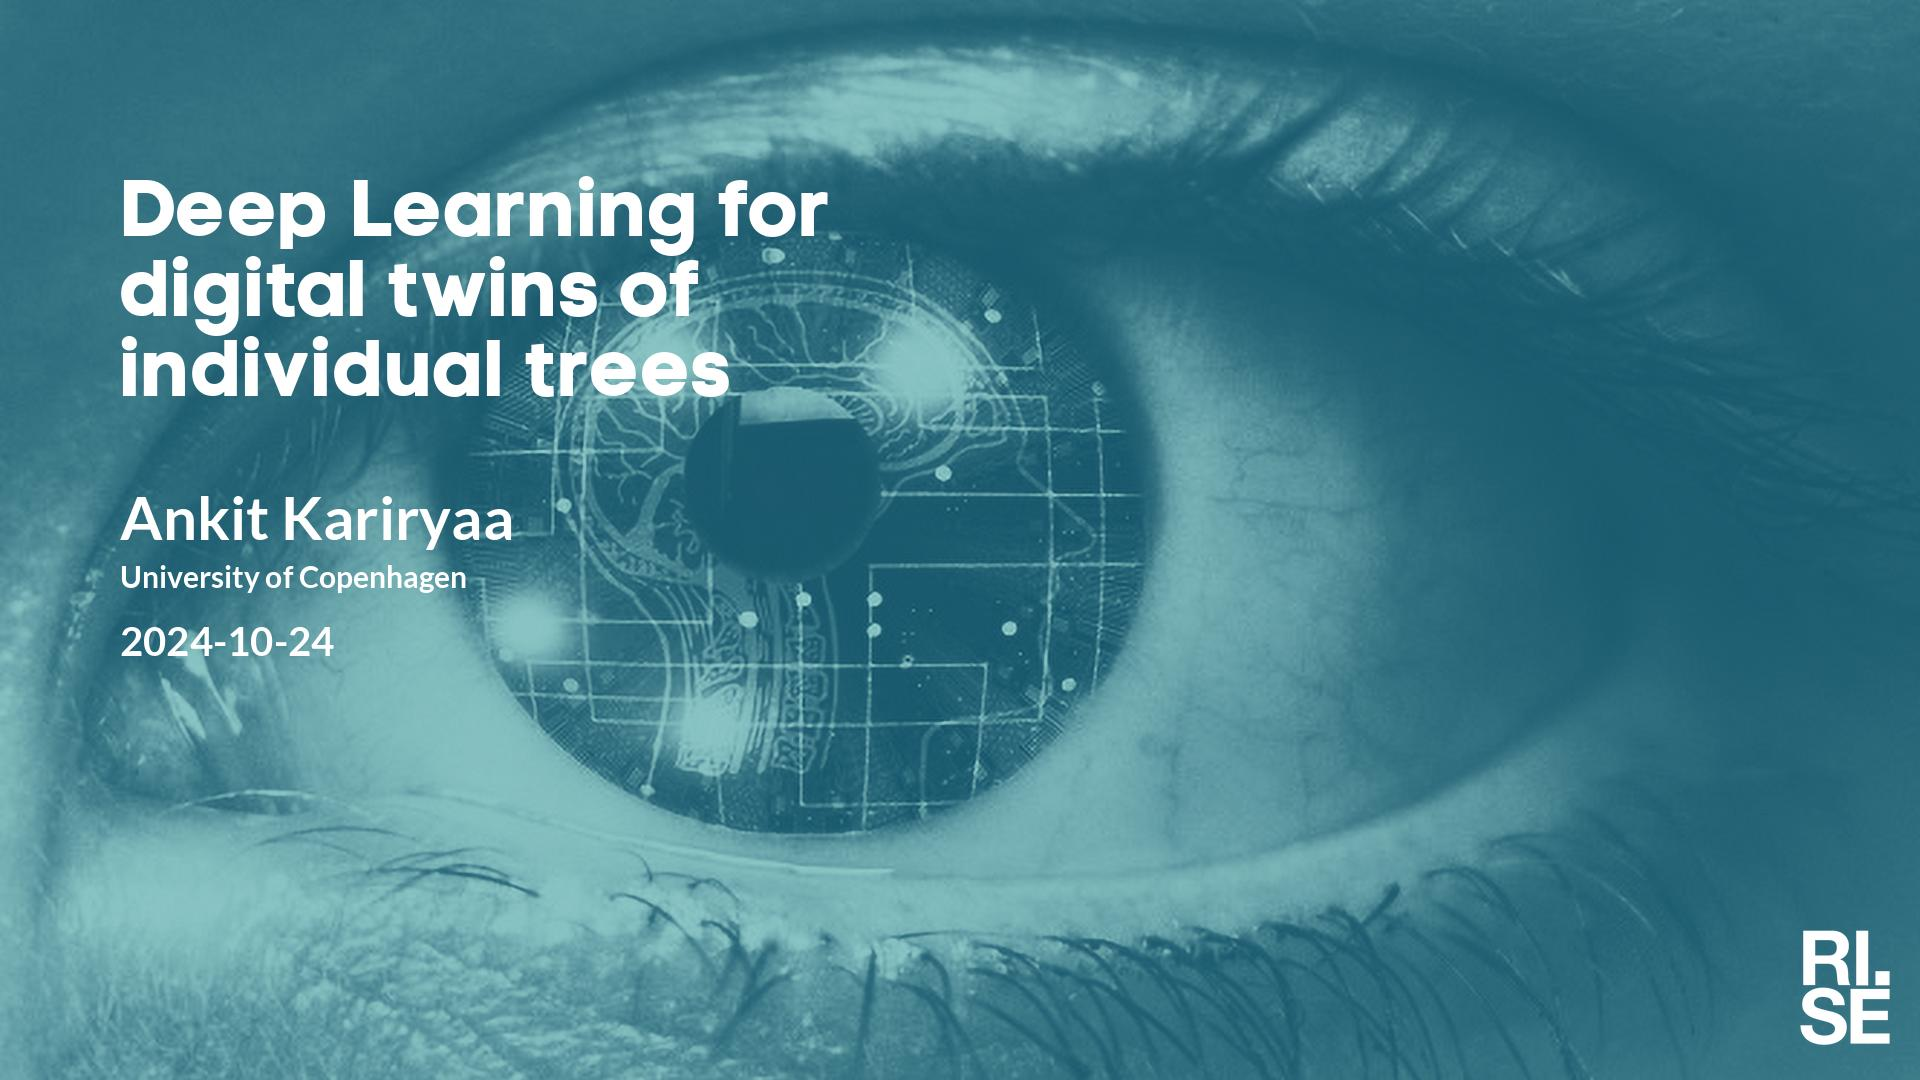
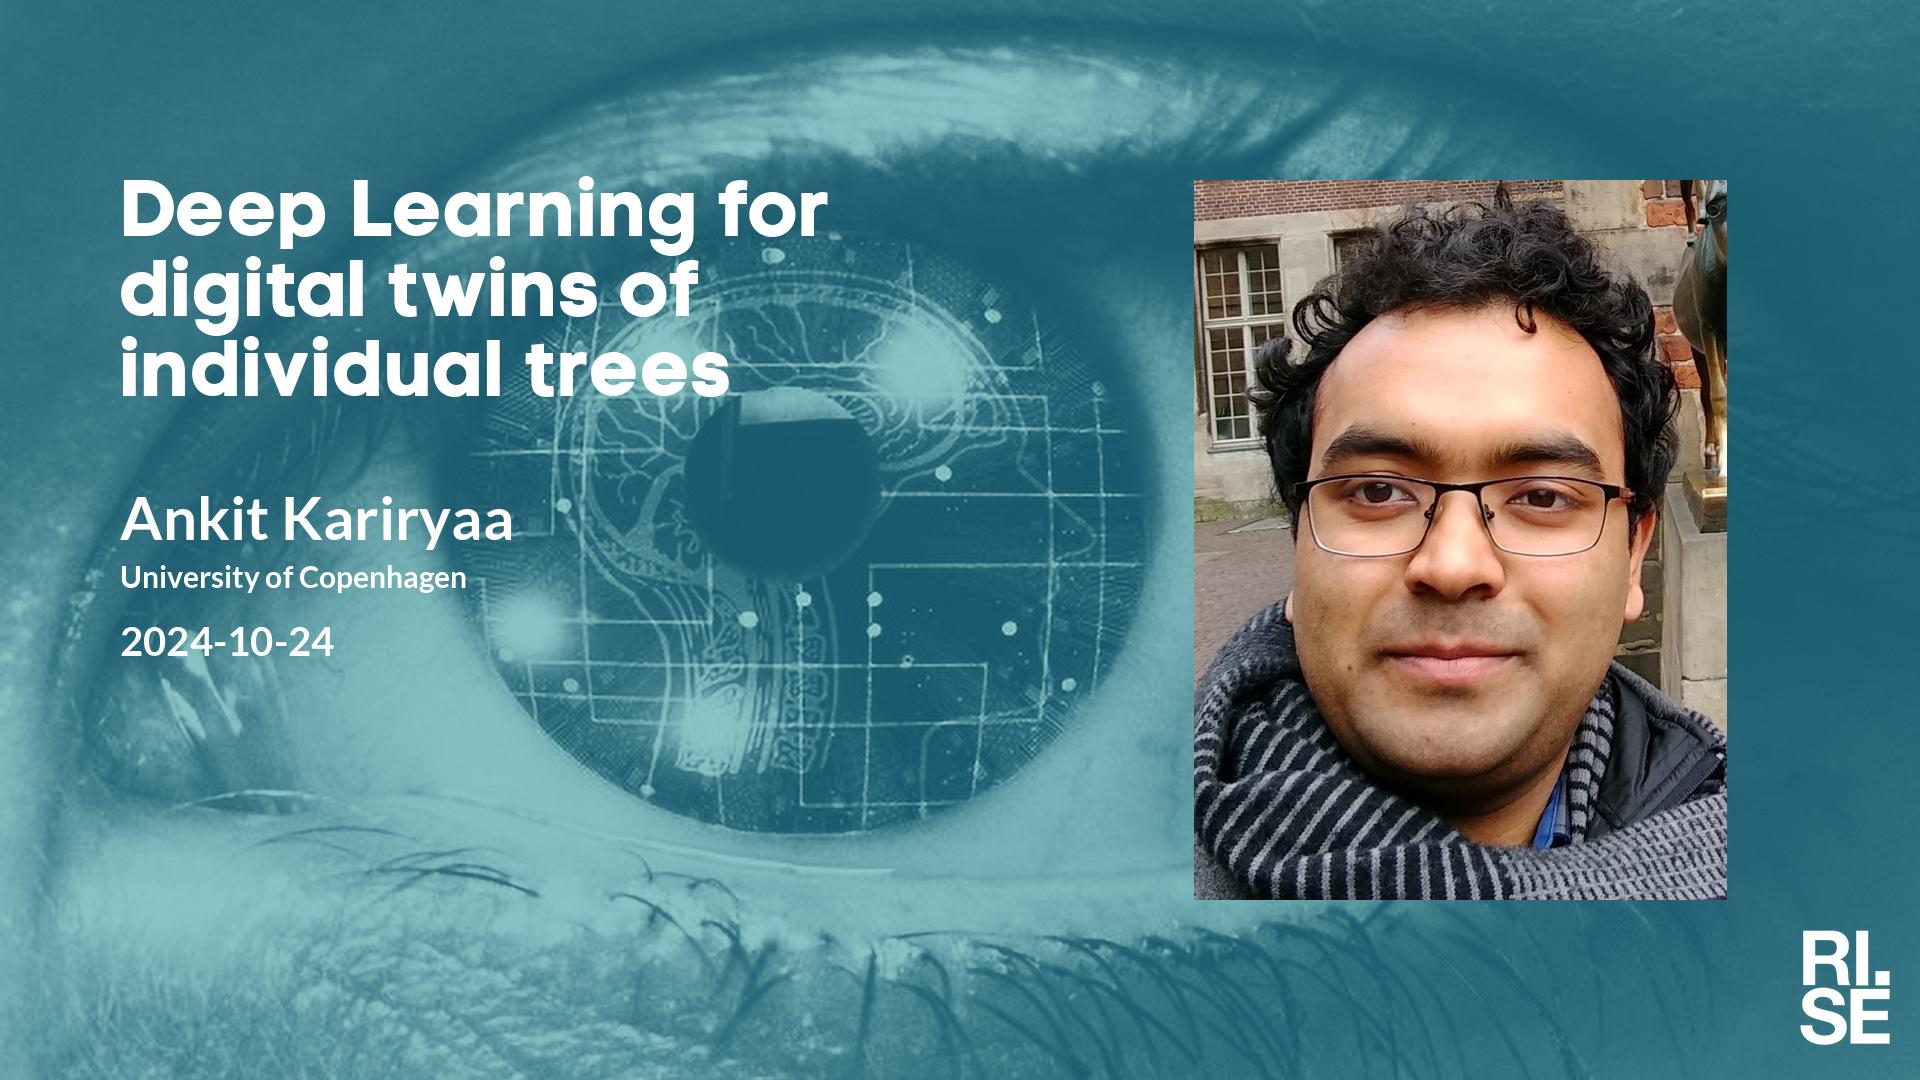
Updated plan on web site.

Changed region(s): [[0.5938, 0.1528, 0.9062, 0.8556]]

diff --git a/lm/index.md b/lm/index.md
@@ -5,14 +5,14 @@ metatags: "<meta name=\"robots\" content=\"noindex,nofollow\" />"
 <style type="text/css" scoped>
 td, th {border: 1px solid #ccc; padding: 0.6em;}
 table {border-collapse: collapse;}
-</style># Learning Machines Plan 2024-10-16
+</style># Learning Machines Plan 2024-10-18
 
 | date | speaker                                   | photo | shareable | meeting backdrop | youtube thumbnail | <a title="Speaker, Title, Abstract, Bio, Photo. Strikethrough means we don't have it yet.">comment</a>        |
 | ---- | ----------------------------------------- | ----- | ----- | ----- | ----- | -------------- |
 |  2024-10-03  |  [Jakob Ambsdorf, University of Copenhagen & Pioneer Centre for AI](2024-10-03.md)  |  [photo](photo-jakob-ambsdorf.jpg)  |  [social media ](social-media-jakob-ambsdorf.jpg)  |  [meeting backdrop ](meeting-backdrop-jakob-ambsdorf.jpg)  |  [youtube thumbnail ](youtube-thumbnail-jakob-ambsdorf.jpg)  |  STABP  |
 | <span style="color:red"> 2024-10-10 </span> | <span style="color:red"> CANCELLED </span> | <span style="color:red">  </span> | <span style="color:red">  </span> | <span style="color:red">  </span> | <span style="color:red">  </span> | <span style="color:red"> CANCELLED </span> |
 |  2024-10-17  |  [Matthias Obst, University of Gothenburg](2024-10-17.md)  |  [photo](photo-matthias-obst.jpg)  |  [social media ](social-media-matthias-obst.jpg)  |  [meeting backdrop ](meeting-backdrop-matthias-obst.jpg)  |  [youtube thumbnail ](youtube-thumbnail-matthias-obst.jpg)  |  STABP  |
-|  2024-10-24  |  [Ankit Kariryaa, University of Copenhagen](2024-10-24.md)  |    |  [social media ](social-media-ankit-kariryaa.jpg)  |  [meeting backdrop ](meeting-backdrop-ankit-kariryaa.jpg)  |  [youtube thumbnail ](youtube-thumbnail-ankit-kariryaa.jpg)  |  STAB~~P~~  |
+|  2024-10-24  |  [Ankit Kariryaa, University of Copenhagen](2024-10-24.md)  |  [photo](photo-ankit-kariryaa.jpg)  |  [social media ](social-media-ankit-kariryaa.jpg)  |  [meeting backdrop ](meeting-backdrop-ankit-kariryaa.jpg)  |  [youtube thumbnail ](youtube-thumbnail-ankit-kariryaa.jpg)  |  STABP  |
 | <span style="color:red"> 2024-10-31 </span> | <span style="color:red"> Höstlov </span> | <span style="color:red">  </span> | <span style="color:red">  </span> | <span style="color:red">  </span> | <span style="color:red">  </span> | <span style="color:red"> CANCELLED </span> |
 |  2024-11-07  |  [Joel Oskarsson, Linköping University](2024-11-07.md)  |  [photo](photo-joel-oskarsson.jpg)  |  [social media ](social-media-joel-oskarsson.jpg)  |  [meeting backdrop ](meeting-backdrop-joel-oskarsson.jpg)  |  [youtube thumbnail ](youtube-thumbnail-joel-oskarsson.jpg)  |  STABP  |
 |  2024-11-14  |  [Abdulhakim Abdi, Lund University](2024-11-14.md)  |  [photo](photo-abdulhakim-abdi.jpg)  |  [social media ](social-media-abdulhakim-abdi.jpg)  |  [meeting backdrop ](meeting-backdrop-abdulhakim-abdi.jpg)  |  [youtube thumbnail ](youtube-thumbnail-abdulhakim-abdi.jpg)  |  S~~TAB~~P  |
